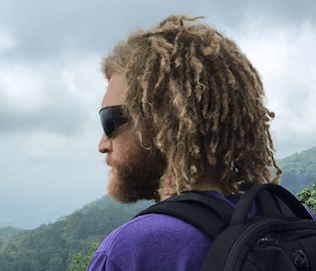
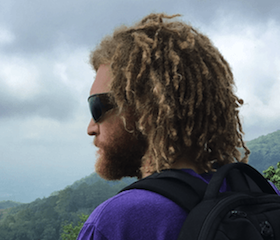
shrink-face

diff --git a/docs/index.html b/docs/index.html
@@ -38,7 +38,7 @@
 
 
 
-<p><img src="https://raw.githubusercontent.com/goodroot/goodroot.ca/master/themes/hugo-classic/images/kellen-thumbs.png" style="min-width:40px;float:right;padding:10px;" alt="Kellen Face"></p>
+<p><img src="https://raw.githubusercontent.com/goodroot/goodroot.ca/master/themes/hugo-classic/images/kellen.png" style="min-width:40px;float:right;padding:10px;" alt="Kellen Face"></p>
 
 <h2 id="kellen-evan-person">Kellen Evan Person</h2>
 
